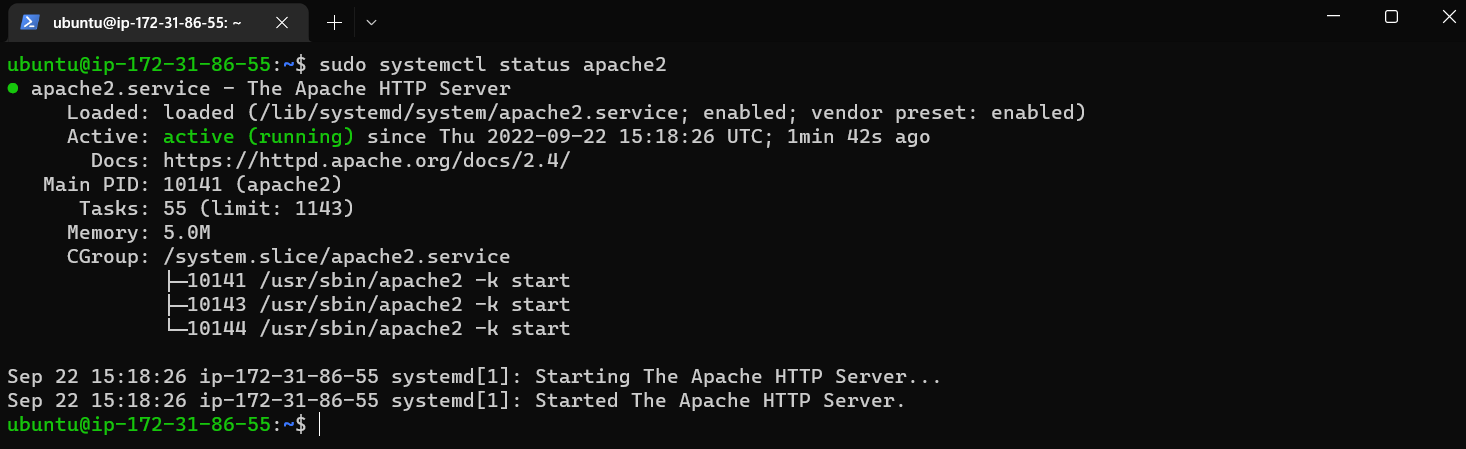
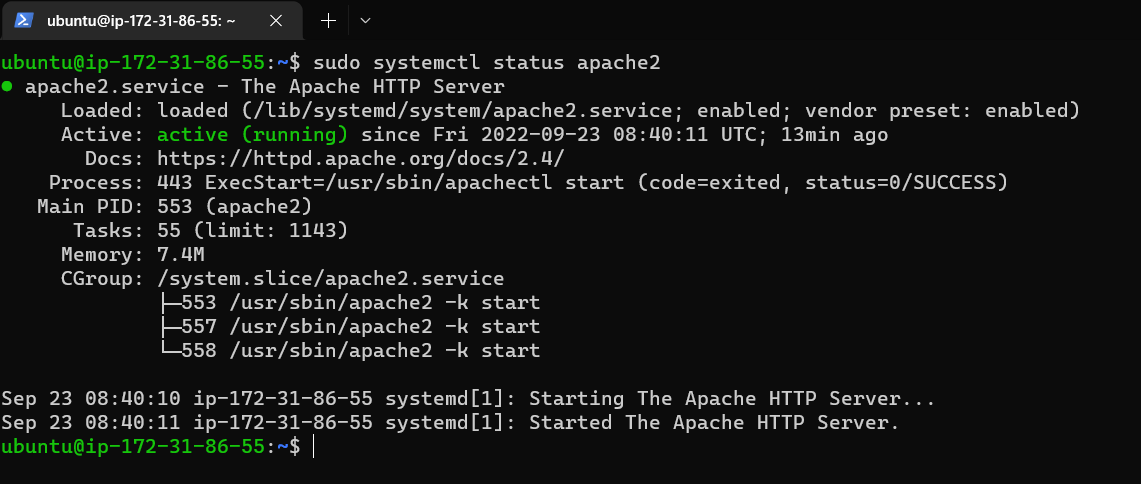
Project 1

Changed region(s): [[0.0, 0.0, 0.9509, 0.7483], [0.0, 0.7795, 0.7975, 0.9666], [0.9816, 0.0312, 1.0, 0.0624]]

diff --git a/project1.md b/project1.md
@@ -4,8 +4,10 @@
 
 `sudo apt install apache2`
 
-`sudo systemctl status apache2`
+`sudo systemctl apache2`
 
-![apache update](./images/apache-update.png)
+![Sudo update](./images/sudo-update.png)
 
-![apache status](./images/apache-status.png)
+![Apache2 Installed](./images/apache2-installed.png)
+
+![Apache Status](./images/apache-status.png)
